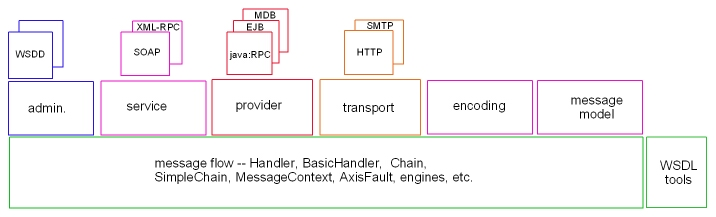
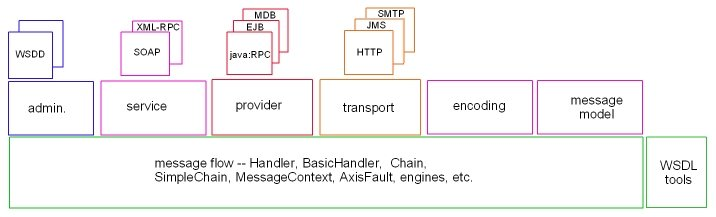
Updated user guide and architecture guide to reflect addition of JMS as a sibling transport to HTTP and SMTP
git-svn-id: https://svn.apache.org/repos/asf/webservices/axis1/trunk/java@248258 13f79535-47bb-0310-9956-ffa450edef68

diff --git a/docs/user-guide.html b/docs/user-guide.html
@@ -142,9 +142,10 @@ This release includes the following features:
   <li>Preliminary support for the <b>SOAP with Attachments</b> specification</li>
   <li> An EJB provider for accessing EJB's as Web Services</li>
   <li> HTTP servlet-based transport</li>
+  <li> JMS based transport</li>
   <li> Standalone version of the server (with HTTP support)</li>
   <li> Examples, including a client and server for the soapbuilders community 
-    interoperability tests and experimental TCP and file-based transports.</li>
+    interoperability tests and experimental TCP, JMS, and file-based transports.</li>
 </ul>
 
 <h3> What's missing?</h3>
@@ -1374,6 +1375,7 @@ new versions of the specification are released.
 <li>org.apache.axis.encoding.ser.SimpleDeserializer</li>
 <li>org.apache.axis.session.Session</li>
 <li>org.apache.axis.transport.http.SimpleAxisServer</li>
+<li>org.apache.axis.transport.jms.SimpleJMSListener</li>
 <li>org.apache.axis.utils.BeanProperty</li>
 <li>org.apache.axis.wsdl.WSDL2Java</li>
 <li>org.apache.axis.wsdl.Java2WSDL</li>

diff --git a/docs/architecture-guide.html b/docs/architecture-guide.html
@@ -152,7 +152,7 @@ use the whole of it (or hack the code).
 <p>The following diagram shows the layering of subsystems. The lower layers
 are independent of the higher layers. The 'stacked' boxes represent mutually
 independent, although not necessary mutually exclusive, alternatives. For
-example, the HTTP and SMTP transports are independent of each other but
+example, the HTTP, SMTP, and JMS transports are independent of each other but
 may be used together.
 <p><img SRC="subsystems.jpg">
 <p>
